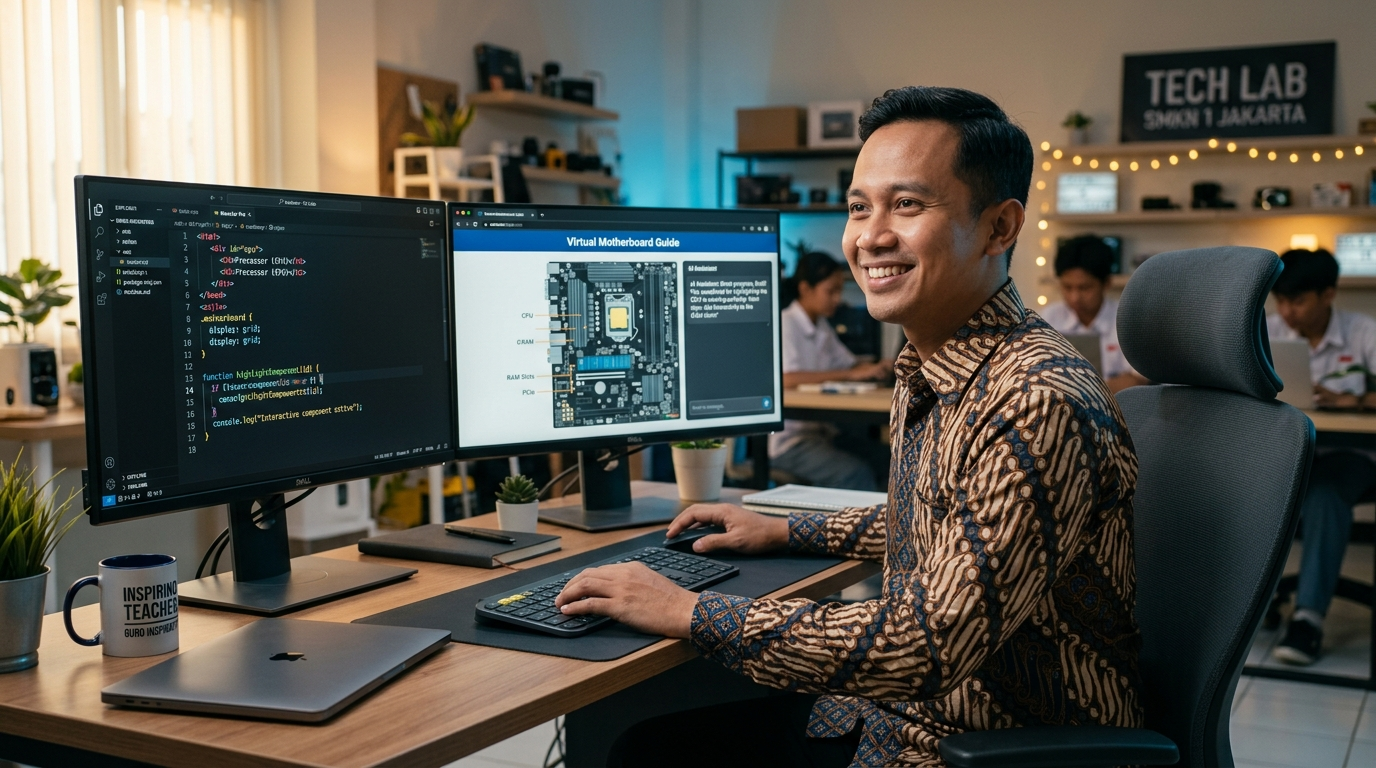
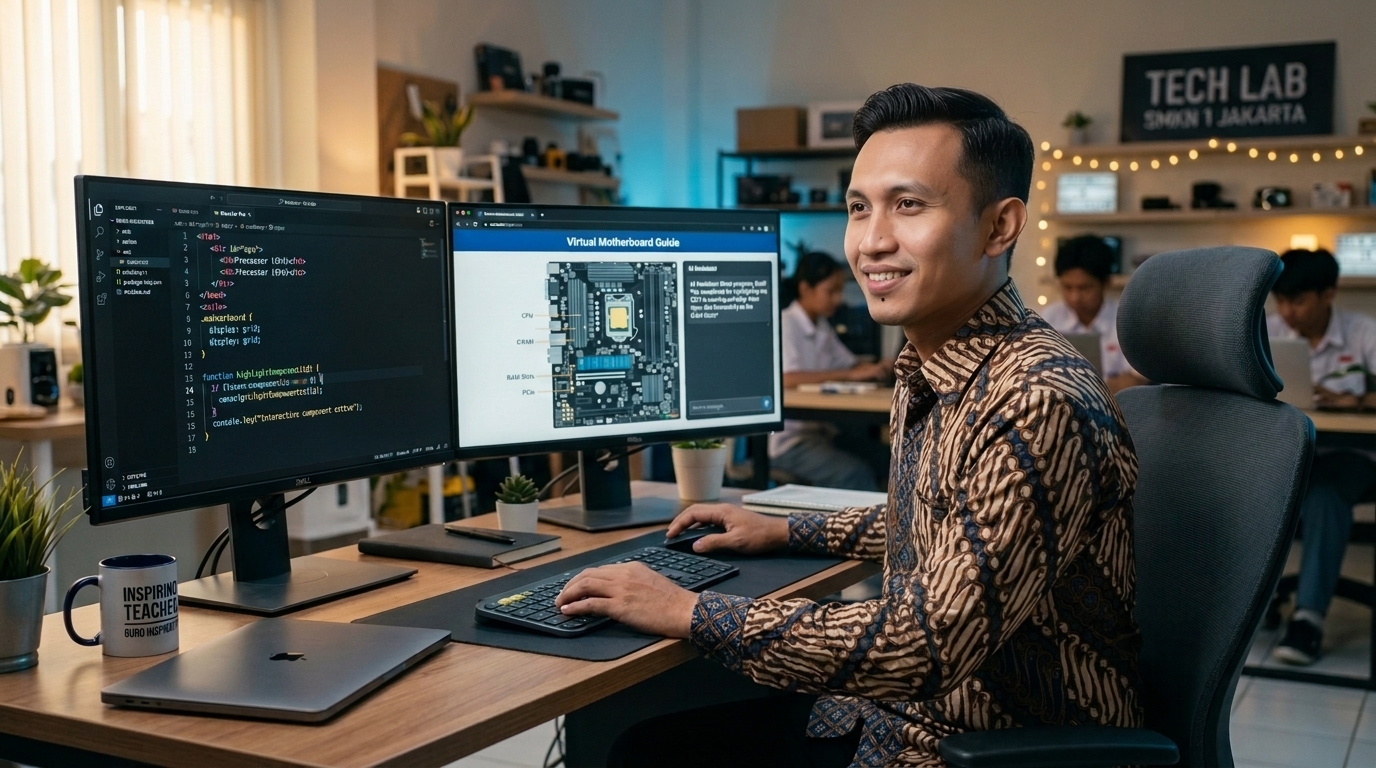
feat(gtk): perbarui foto vibe coding Fanani dan redaksi tantangan slide 3

diff --git a/lab/doc/20260930 - Apresiasi GTK 2026/index.html b/lab/doc/20260930 - Apresiasi GTK 2026/index.html
@@ -287,10 +287,10 @@
     <div class="kicker rv" style="--d:0">Tantangan</div>
     <h2 class="h2 rv" style="--d:1">Empat hal yang harus <span class="grad">dijawab</span></h2>
     <div class="g2">
-      <div class="card row rv" style="--d:2"><span class="tile t-sky"><svg class="ic"><use href="#i-move"/></svg></span><div><div class="ct">Interaksi yang presisi</div><div class="cd">Komponen harus terpasang tepat di soket motherboard — di layar sentuh maupun komputer lab — tanpa memberatkan perangkat.</div></div></div>
-      <div class="card row rv" style="--d:3"><span class="tile t-ind"><svg class="ic"><use href="#i-shield"/></svg></span><div><div class="ct">AI yang jujur dan etis</div><div class="cd">AI menjadi mitra kerja guru, bukan pengganti. Prompt pembuatan aset dicantumkan terbuka di dalam media.</div></div></div>
-      <div class="card row rv" style="--d:4"><span class="tile t-amb"><svg class="ic"><use href="#i-monitor"/></svg></span><div><div class="ct">Terbaca dari bangku belakang</div><div class="cd">Teks, label komponen, dan area seret tetap jelas di panel interaktif kelas dan tidak bergeser di layar berbeda.</div></div></div>
-      <div class="card row rv" style="--d:5"><span class="tile t-emr"><svg class="ic"><use href="#i-refresh"/></svg></span><div><div class="ct">Kebiasaan belajar pasif</div><div class="cd">Mengubah murid dari penerima penjelasan menjadi pembelajar yang berani mencoba, keliru, dan menyimpulkan sendiri.</div></div></div>
+      <div class="card row rv" style="--d:2"><span class="tile t-sky"><svg class="ic"><use href="#i-move"/></svg></span><div><div class="ct">Interaksi presisi &amp; responsif</div><div class="cd">Komponen terpasang presisi di soket motherboard — lancar di layar sentuh maupun mouse tanpa membebani perangkat.</div></div></div>
+      <div class="card row rv" style="--d:3"><span class="tile t-ind"><svg class="ic"><use href="#i-shield"/></svg></span><div><div class="ct">Pemanfaatan AI yang etis</div><div class="cd">AI difungsikan sebagai mitra akselerasi guru, bukan pengganti. Seluruh prompt pembuatan aset dicantumkan terbuka.</div></div></div>
+      <div class="card row rv" style="--d:4"><span class="tile t-amb"><svg class="ic"><use href="#i-monitor"/></svg></span><div><div class="ct">Keterbacaan di layar kelas (IFP)</div><div class="cd">Rasio 16:9 yang tajam dan proporsional — teks serta simulasi tetap terbaca jelas dari seluruh sudut kelas maupun komputer lab.</div></div></div>
+      <div class="card row rv" style="--d:5"><span class="tile t-emr"><svg class="ic"><use href="#i-refresh"/></svg></span><div><div class="ct">Transformasi pola belajar</div><div class="cd">Menggeser peran murid dari penerima teori pasif menjadi pembelajar aktif yang berani bereksplorasi dan menalar mandiri.</div></div></div>
     </div>
   </section>
 
